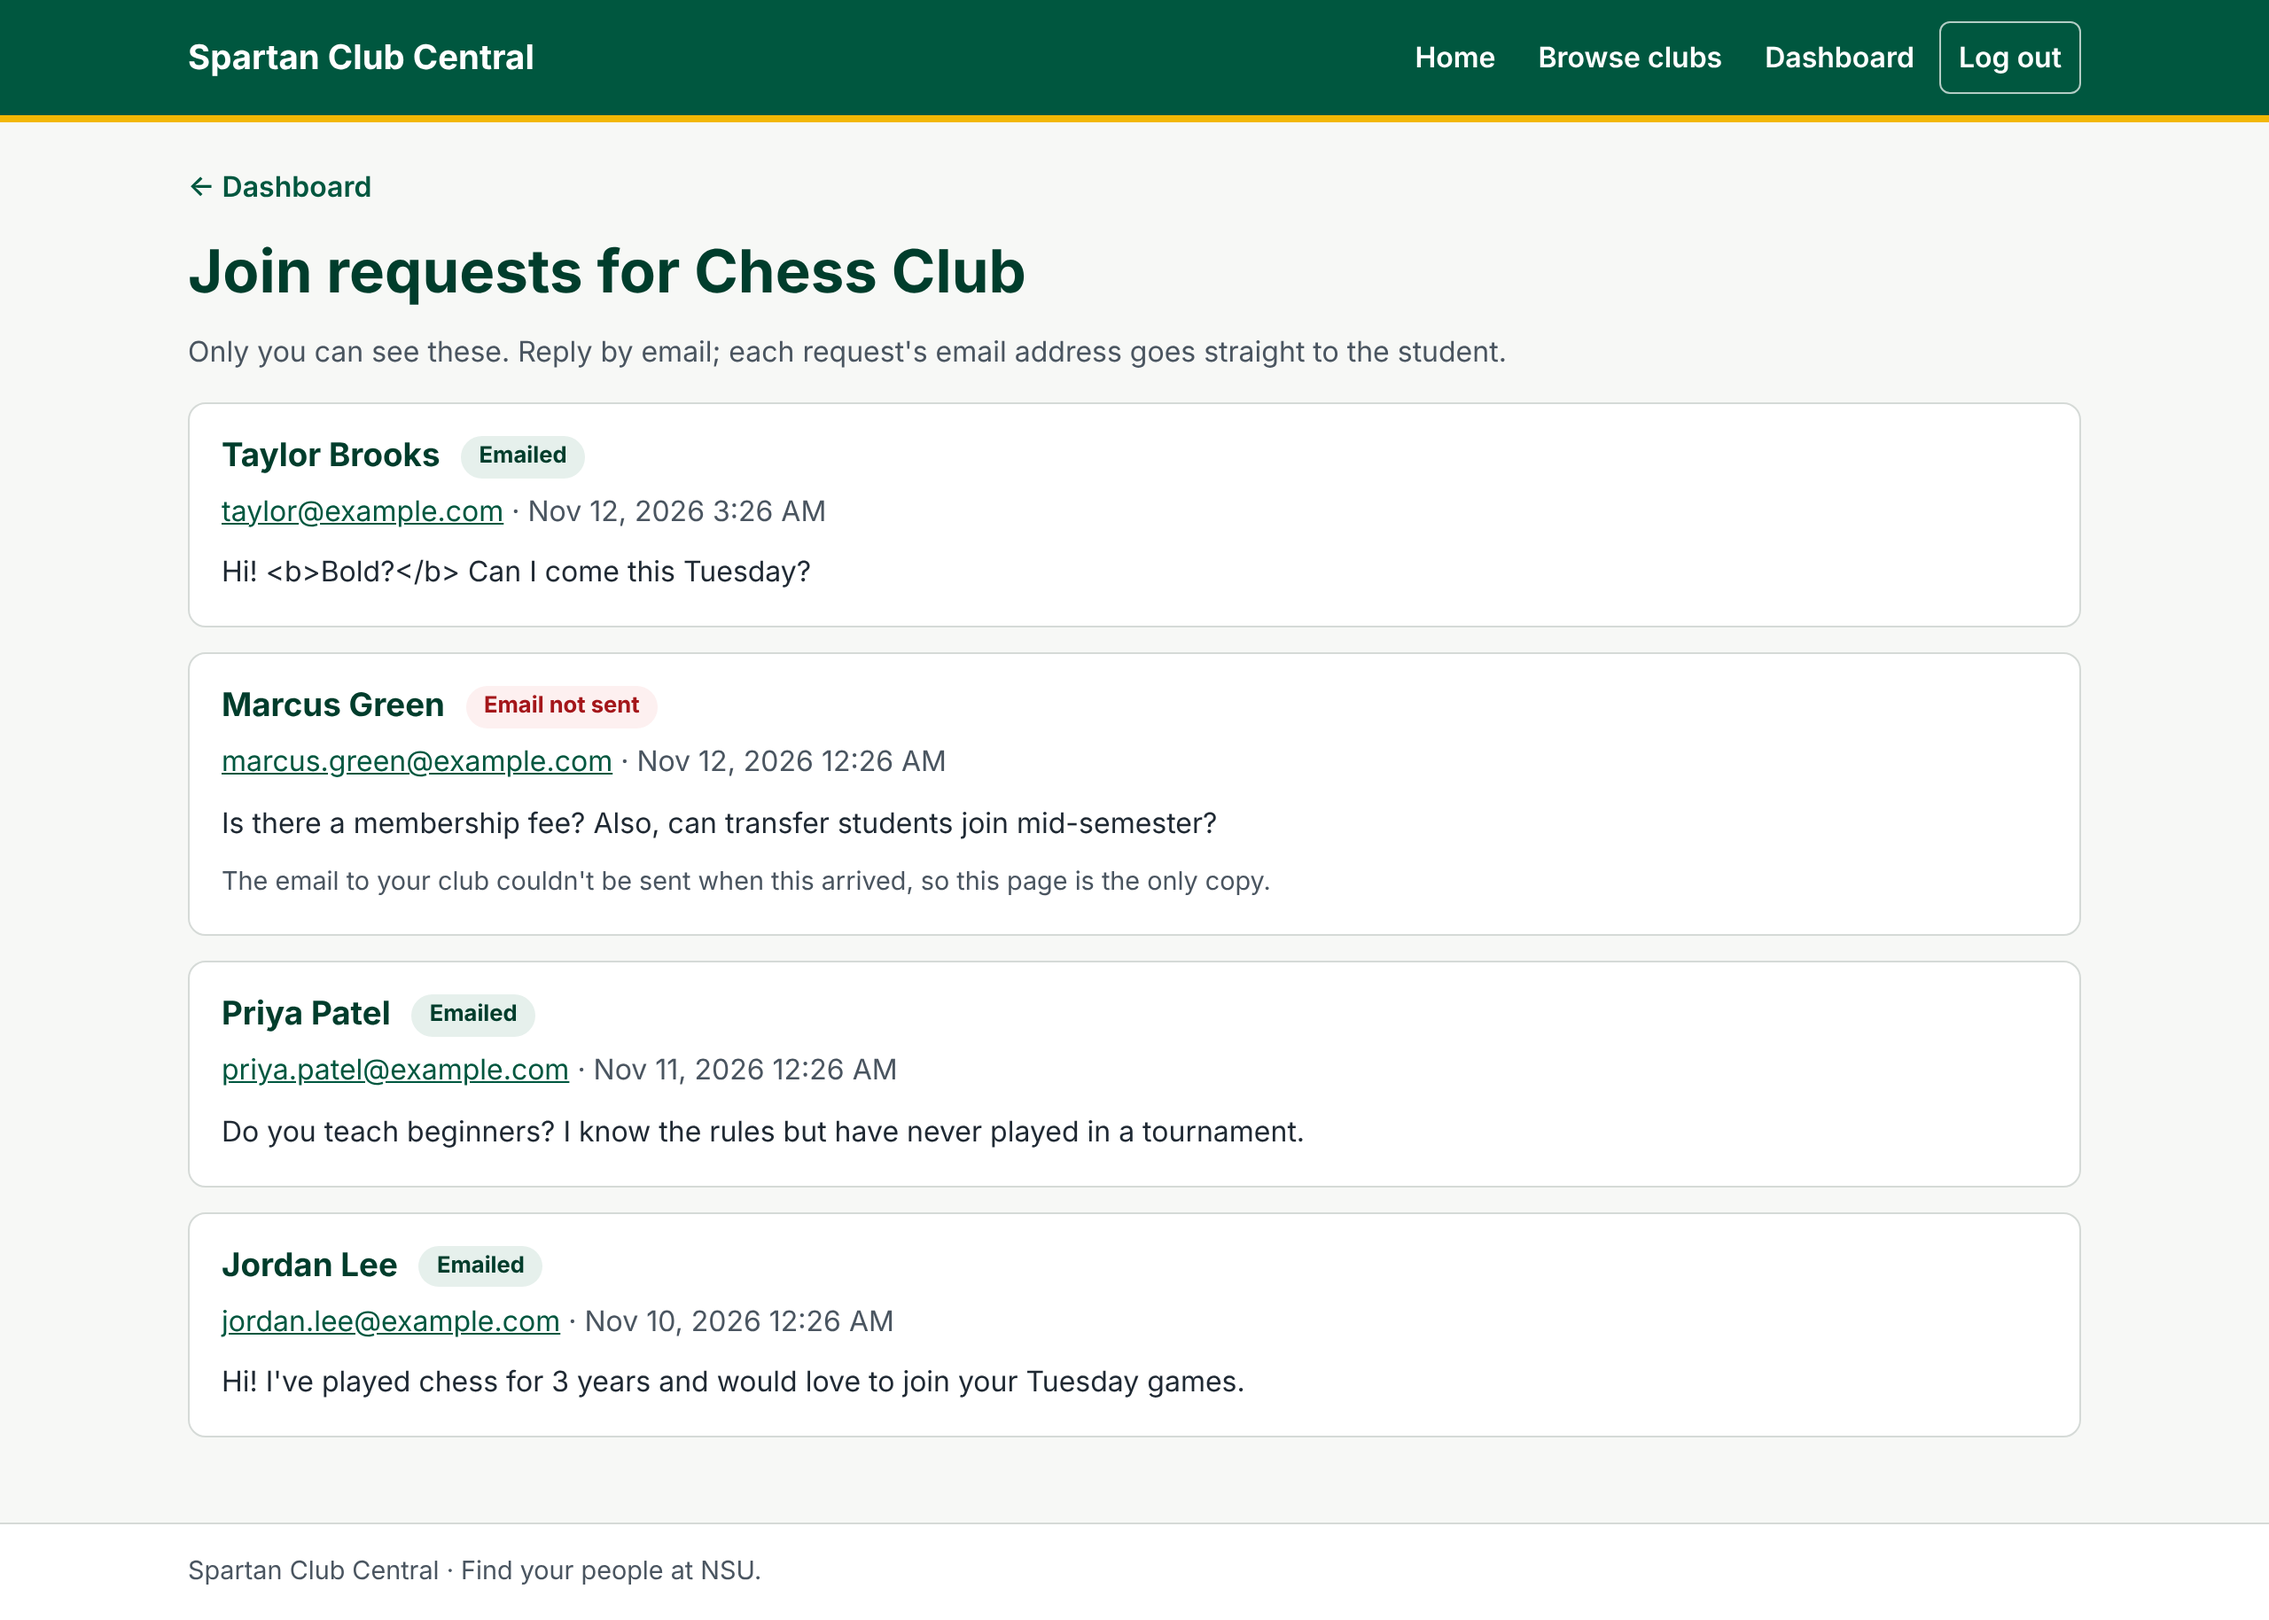
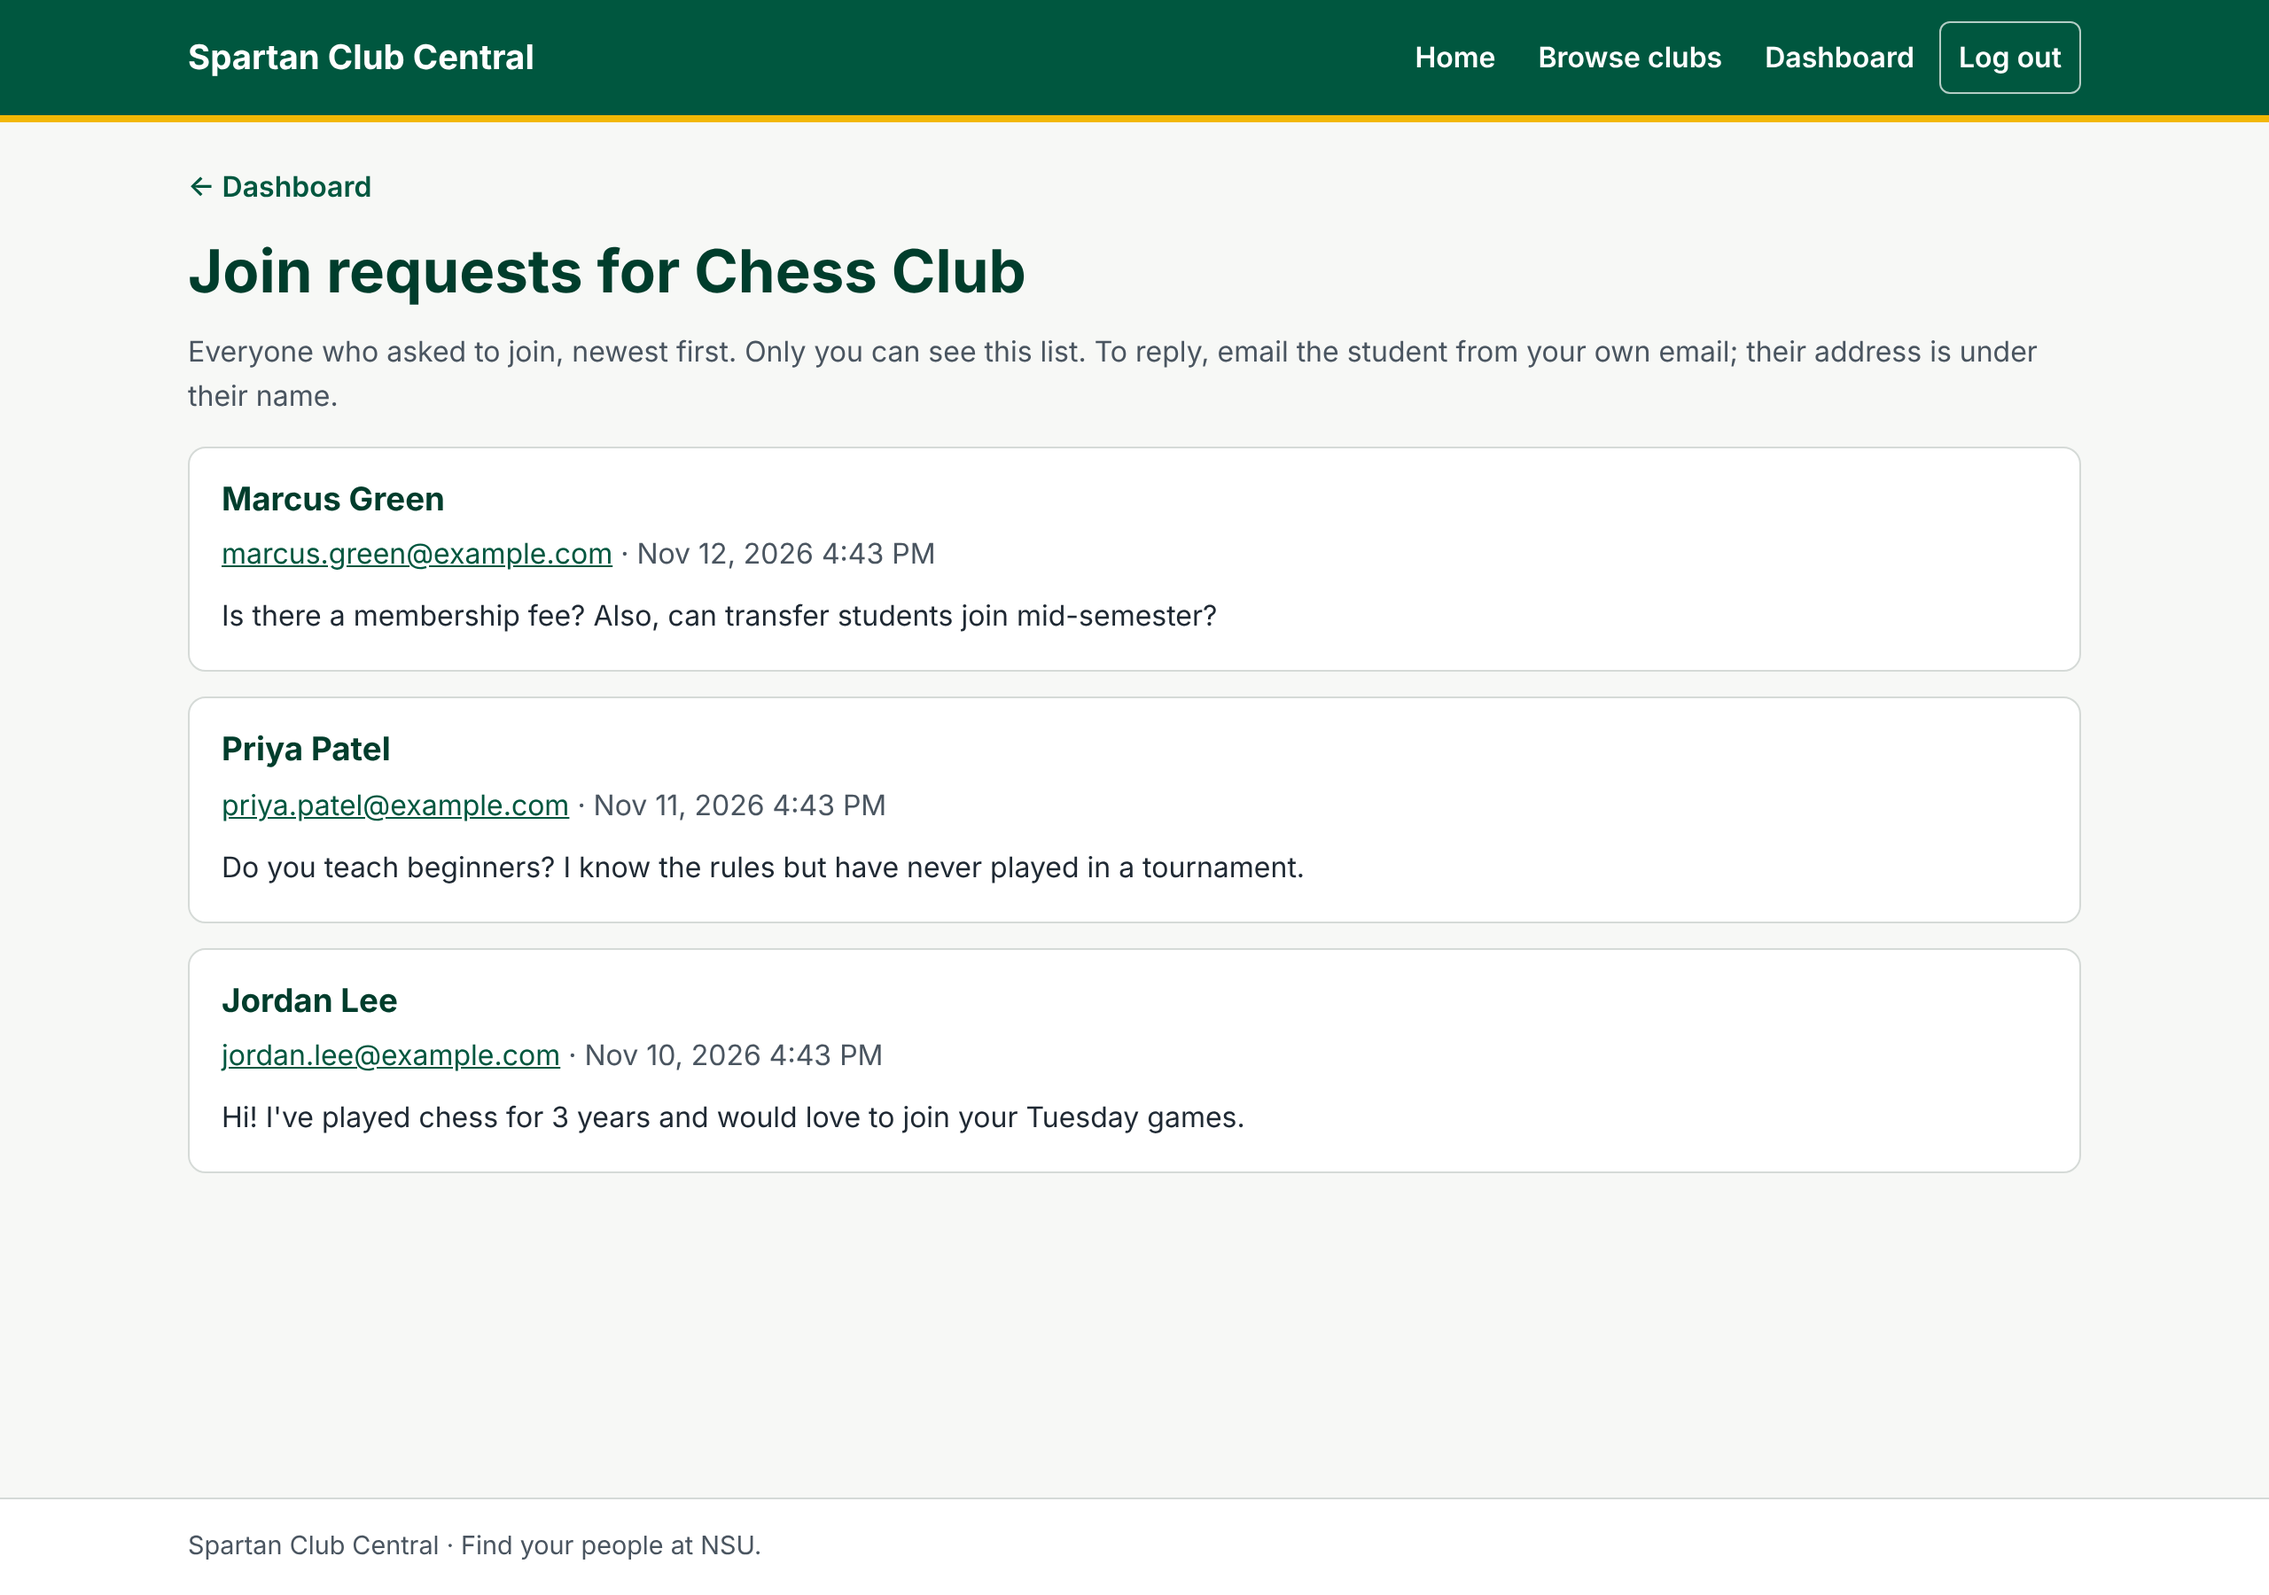
Request inbox: plain backlog without email-status labels
Leaders reply to students from their own email, so the site can't know
whether they did. The "Emailed" / "Email not sent" labels and the "only
copy" note read like reply tracking, so the leader's request page is now a
simple backlog: name, email (mailto link), date and message, newest first.
The app still records internally whether the notification reached the
club's contact address; it's just not shown to leaders.

- dashboard/requests.html and the offline preview updated; wording explains
  the list and how to reply
- Test: the backlog shows no email status, even for a FAILED notification
- run-locally.md checklist and the request screenshot updated

Claude-Session: https://claude.ai/code/session_01GoTscMFqP1UVwJLnHPQiY2

diff --git a/src/main/resources/templates/dashboard/requests.html b/src/main/resources/templates/dashboard/requests.html
@@ -5,33 +5,30 @@
 <div th:replace="~{fragments/layout :: header}"></div>
 
 <!--/*
-  Request inbox (NFR-02, SPR-04). Only reachable for the leader's own club:
-  RequestService checks ownership before reading any student data.
+  Request backlog (NFR-02, SPR-04): every student who asked to join, newest
+  first. Only reachable for the leader's own club: RequestService checks
+  ownership before reading any student data. Leaders reply from their own
+  email, so the site doesn't track replies or show email status here.
   Messages are shown with th:text, so anything a student typed is plain text.
 */-->
 <main id="main" class="container page">
   <p class="back-link"><a th:href="@{/dashboard}">&larr; Dashboard</a></p>
   <h1>Join requests for <span th:text="${club.clubName}">Chess Club</span></h1>
-  <p class="muted">Only you can see these. Reply by email; each request's email address goes straight to the student.</p>
+  <p class="muted">Everyone who asked to join, newest first. Only you can see this list. To reply, email the student from your own email; their address is under their name.</p>
 
   <div class="card empty-state" th:if="${#lists.isEmpty(requests)}">
     <h2>No requests yet</h2>
-    <p>When a student uses the form on your club's page, it shows up here and is emailed to your club's contact address.</p>
+    <p>When a student uses the form on your club's page, their name, email and message show up here.</p>
   </div>
 
   <ol class="request-list" th:unless="${#lists.isEmpty(requests)}" reversed>
     <li class="card request" th:each="r : ${requests}">
-      <div class="request-head">
-        <h2 th:text="${r.studentName}">Jordan Lee</h2>
-        <span class="status" th:classappend="'status-' + ${r.status}"
-              th:text="${r.status.name() == 'FAILED'} ? 'Email not sent' : (${r.status.name() == 'DELIVERED'} ? 'Emailed' : 'Saved')">Emailed</span>
-      </div>
+      <h2 class="request-name" th:text="${r.studentName}">Jordan Lee</h2>
       <p class="request-meta">
         <a th:href="'mailto:' + ${r.studentEmail}" th:text="${r.studentEmail}">jordan@example.com</a>
         &middot; <time th:datetime="${r.dateSubmitted}" th:text="${#temporals.format(r.dateSubmitted, 'MMM d, yyyy h:mm a')}">Nov 12, 2026</time>
       </p>
       <p class="request-message" th:text="${r.message}">Message</p>
-      <p class="muted small" th:if="${r.status.name() == 'FAILED'}">The email to your club couldn't be sent when this arrived, so this page is the only copy.</p>
     </li>
   </ol>
 </main>

diff --git a/docs/local-run.html b/docs/local-run.html
@@ -352,6 +352,7 @@ textarea {
 .picture-row { display: flex; align-items: center; gap: 12px; }
 .picture-row p { margin: 0; }
 input[type=file] { padding: 8px; }
+.request-name { margin: 0; font-size: 1.15rem; }
 
 
 /* ===== Extra styles for this offline file only ===== */
@@ -1418,19 +1419,17 @@ function confirmDeletePage(u, club) {
 function leaderInboxPage(u, club) {
   document.title = "Join requests | Spartan Club Central";
   const list = requestsFor(club.id).slice().reverse();
-  const label = s => s === "FAILED" ? "Email not sent" : s === "DELIVERED" ? "Emailed" : "Saved";
   return h("div", { class: "container page" },
     h("p", { class: "back-link" }, h("a", { href: "#/dashboard" }, "← Dashboard")),
     h("h1", {}, "Join requests for ", h("span", {}, club.name)),
-    h("p", { class: "muted" }, "Only you can see these. Reply by email; each request's email address goes straight to the student."),
+    h("p", { class: "muted" }, "Everyone who asked to join, newest first. Only you can see this list. To reply, email the student from your own email; their address is under their name."),
     list.length === 0
       ? h("div", { class: "card empty-state" }, h("h2", {}, "No requests yet"),
-          h("p", {}, "When a student uses the form on your club's page, it shows up here and is emailed to your club's contact address."))
+          h("p", {}, "When a student uses the form on your club's page, their name, email and message show up here."))
       : h("ol", { class: "request-list", reversed: true }, list.map(r => h("li", { class: "card request" },
-          h("div", { class: "request-head" }, h("h2", {}, r.name), h("span", { class: "status status-" + r.status }, label(r.status))),
+          h("h2", { class: "request-name" }, r.name),
           h("p", { class: "request-meta" }, h("a", { href: "mailto:" + r.email }, r.email), " · ", r.date),
-          h("p", { class: "request-message" }, r.message),
-          r.status === "FAILED" ? h("p", { class: "muted small" }, "The email to your club couldn't be sent when this arrived, so this page is the only copy.") : null))));
+          h("p", { class: "request-message" }, r.message)))));
 }
 
 // ---- Phase 6: password reset (same rules as AuthService) ----

diff --git a/src/main/resources/static/css/main.css b/src/main/resources/static/css/main.css
@@ -344,3 +344,4 @@ textarea {
 .picture-row { display: flex; align-items: center; gap: 12px; }
 .picture-row p { margin: 0; }
 input[type=file] { padding: 8px; }
+.request-name { margin: 0; font-size: 1.15rem; }

diff --git a/src/test/java/com/spartanclubcentral/Spartan/Club/controller/DashboardControllerTest.java b/src/test/java/com/spartanclubcentral/Spartan/Club/controller/DashboardControllerTest.java
@@ -201,8 +201,14 @@ class DashboardControllerTest {
     // ---------- NFR-02 / SPR-04 request inbox ----------
 
     @Test
-    @DisplayName("TC-20: a leader's inbox shows only their own club's requests")
+    @DisplayName("TC-20: a leader's request backlog shows only their own club's requests, with no email status")
     void inboxShowsOnlyOwnRequests() throws Exception {
+        JoinRequest failed = request(chess, "Failed Mail", "failed@example.com", "Sent while mail was down");
+        failed.setStatus(com.spartanclubcentral.Spartan.Club.model.RequestStatus.FAILED);
+        requests.saveAndFlush(failed);
+        mvc.perform(get("/dashboard/clubs/" + chess.getClubId() + "/requests").with(user(me(leaderA))))
+                .andExpect(content().string(allOf(containsString("Failed Mail"), not(containsString("Email not sent")),
+                        not(containsString("Emailed")), not(containsString("status-")))));
         mvc.perform(get("/dashboard/clubs/" + chess.getClubId() + "/requests").with(user(me(leaderA))))
                 .andExpect(status().isOk())
                 .andExpect(content().string(allOf(containsString("Chess Student"), containsString("chess.student@example.com"),

diff --git a/docs/run-locally.md b/docs/run-locally.md
@@ -214,7 +214,7 @@ Your browser gets a new session cookie when you log in, and you're logged out af
 | Do this | You should see | Proves |
 |---|---|---|
 | Log in as `demo.leader@clubcentral.local` / `spartan-demo-2026` | Dashboard with Chess Club, "Visible to students", **Join requests 3** | FR-04 |
-| Click **Join requests** | Three requests (one marked "Email not sent"), only Chess Club's | NFR-02, SPR-04 |
+| Click **Join requests** | A backlog of three requests (name, email, date, message), only Chess Club's | NFR-02, SPR-04 |
 | **Edit club**, website `javascript:alert(1)` | "Enter a full web address starting with https://"; your other changes are kept | SPR-05 |
 | Fix it, change the meeting time, **Save changes** | "Your changes were saved."; the public Chess Club page shows the new time | FR-09, TC-12 |
 | **Hide club from students**, then open http://localhost:8080/clubs/1 | "Page not found"; Chess Club is gone from search. **Show club** brings it back | FR-12, TC-13 |
